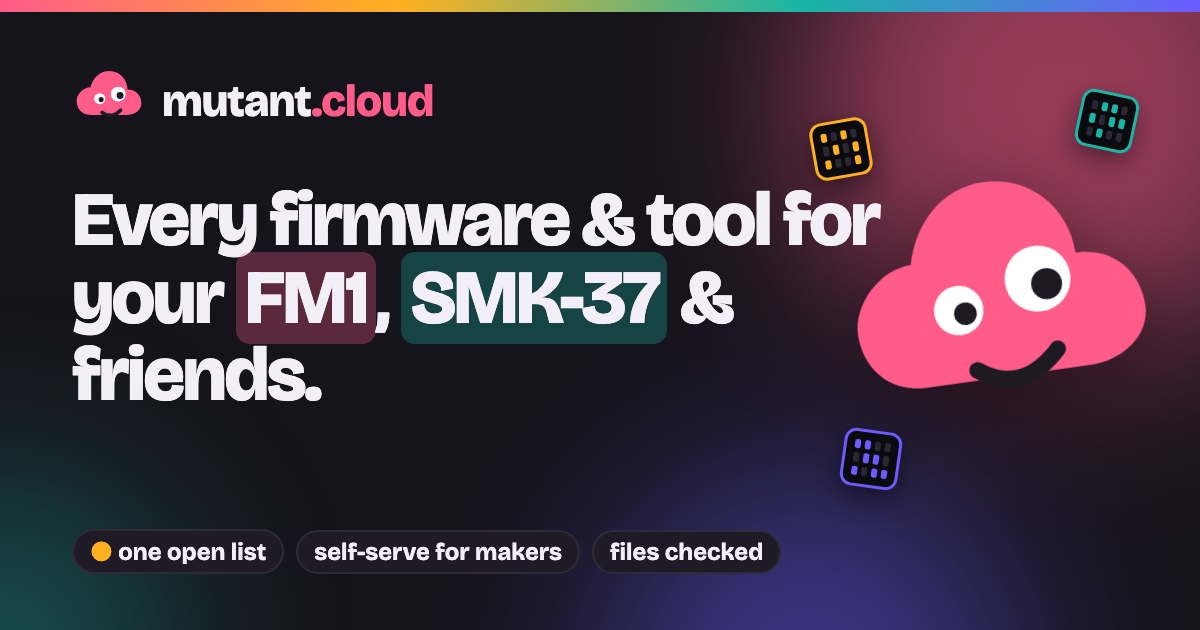
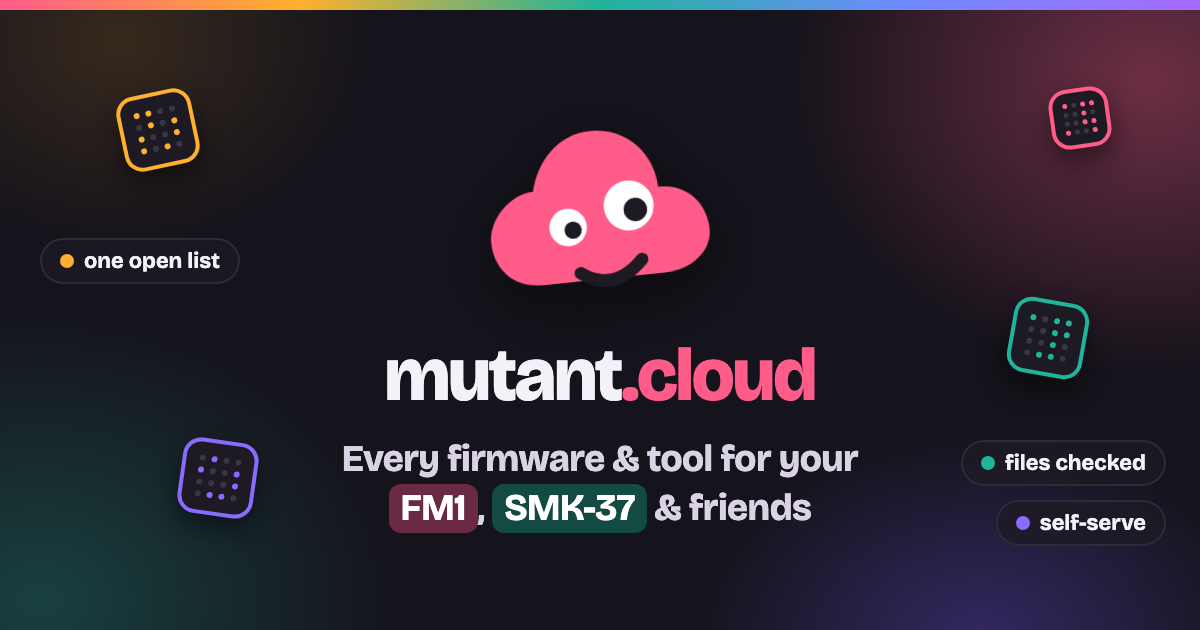
Social image framed for square crops

diff --git a/scripts/og.html b/scripts/og.html
@@ -1,0 +1,167 @@
+<!doctype html>
+<!-- The link preview picture (public/og.png, 1200 × 630): npm run og. Everything that matters sits in the middle
+     630 × 630 square, since Facebook's small previews (in comments, on phones) crop to that square; the sides are decoration. -->
+<html>
+  <head>
+    <meta charset="utf-8" />
+    <link href="https://fonts.googleapis.com/css2?family=Bricolage+Grotesque:opsz,wght@12..96,700;12..96,800&display=block" rel="stylesheet" />
+    <style>
+      * {
+        box-sizing: border-box;
+        margin: 0;
+      }
+      html,
+      body {
+        width: 1200px;
+        height: 630px;
+        overflow: hidden;
+        background: #15131b;
+      }
+      body {
+        position: relative;
+        font-family: 'Bricolage Grotesque', system-ui, sans-serif;
+        color: #f4f1f8;
+        background: radial-gradient(520px 420px at 1150px 80px, rgba(255, 92, 138, 0.38), transparent 70%), radial-gradient(520px 420px at 40px 600px, rgba(32, 160, 140, 0.32), transparent 70%), radial-gradient(420px 300px at 980px 640px, rgba(110, 80, 230, 0.35), transparent 70%), radial-gradient(360px 300px at 120px 40px, rgba(255, 180, 40, 0.14), transparent 70%), #15131b;
+      }
+      .bar {
+        position: absolute;
+        inset: 0 0 auto;
+        height: 10px;
+        background: linear-gradient(90deg, #ff5c8a, #ffb02e, #20b49a, #6e8bff, #a66bff);
+      }
+      /* the middle square */
+      .mid {
+        position: absolute;
+        left: 285px;
+        top: 0;
+        width: 630px;
+        height: 630px;
+        display: flex;
+        flex-direction: column;
+        align-items: center;
+        justify-content: center;
+        text-align: center;
+        padding: 40px 30px 30px;
+      }
+      .mascot {
+        width: 250px;
+        height: 250px;
+        margin-bottom: -18px;
+        filter: drop-shadow(0 18px 30px rgba(0, 0, 0, 0.45));
+        transform: rotate(-6deg);
+      }
+      .word {
+        font-size: 74px;
+        font-weight: 800;
+        letter-spacing: -2px;
+        line-height: 1;
+      }
+      .word b {
+        color: #ff5c8a;
+      }
+      .tag {
+        margin-top: 22px;
+        font-size: 37px;
+        font-weight: 700;
+        line-height: 1.32;
+        letter-spacing: -0.5px;
+        color: #d9d3e3;
+      }
+      .pill {
+        display: inline-block;
+        padding: 0 12px;
+        border-radius: 12px;
+        color: #fff;
+      }
+      .fm1 {
+        background: #6a2a44;
+      }
+      .smk {
+        background: #144a44;
+      }
+      /* little device tiles, on the sides */
+      .tile {
+        position: absolute;
+        width: 76px;
+        height: 76px;
+        border-radius: 18px;
+        border: 4px solid var(--c);
+        background: #1d1a24;
+        display: grid;
+        grid-template-columns: repeat(4, 1fr);
+        gap: 6px;
+        padding: 13px;
+        box-shadow: 0 12px 26px rgba(0, 0, 0, 0.45);
+      }
+      .tile i {
+        border-radius: 3px;
+        background: #3a3545;
+      }
+      .tile i.on {
+        background: var(--c);
+      }
+      .chips {
+        position: absolute;
+        display: flex;
+        flex-direction: column;
+        gap: 14px;
+        font-size: 22px;
+        font-weight: 700;
+      }
+      .chips span {
+        padding: 8px 18px;
+        border-radius: 999px;
+        background: rgba(29, 26, 36, 0.85);
+        border: 2px solid #2e2a38;
+        white-space: nowrap;
+      }
+      .chips span::before {
+        content: '';
+        display: inline-block;
+        width: 14px;
+        height: 14px;
+        border-radius: 50%;
+        margin-right: 10px;
+        background: var(--c);
+      }
+    </style>
+  </head>
+  <body>
+    <div class="bar"></div>
+
+    <div class="mid">
+      <svg class="mascot" viewBox="0 0 32 32" aria-hidden="true">
+        <path fill="#ff5c8a" d="M8 22c-4 0-6-3-6-6s3-6 6-6c1-4 4-7 8-7 5 0 8 4 8 8 4 0 6 3 6 6s-3 5-6 5H8z" />
+        <circle cx="12" cy="15" r="2.4" fill="#fff" />
+        <circle cx="12.6" cy="15.4" r="1.1" fill="#1d1a24" />
+        <circle cx="20" cy="13" r="3.2" fill="#fff" />
+        <circle cx="20.8" cy="13.6" r="1.5" fill="#1d1a24" />
+        <path d="M13 21q4 3 8-1" stroke="#1d1a24" stroke-width="1.6" fill="none" stroke-linecap="round" />
+      </svg>
+      <div class="word">mutant<b>.cloud</b></div>
+      <div class="tag">Every firmware &amp; tool for your<br /><span class="pill fm1">FM1</span>, <span class="pill smk">SMK-37</span> &amp; friends</div>
+    </div>
+
+    <div class="tile" style="--c: #ffb02e; left: 120px; top: 92px; transform: rotate(-12deg)"></div>
+    <div class="tile" style="--c: #20b49a; left: 1010px; top: 300px; transform: rotate(10deg)"></div>
+    <div class="tile" style="--c: #8a6bff; left: 180px; top: 440px; transform: rotate(8deg)"></div>
+    <div class="tile" style="--c: #ff5c8a; left: 1050px; top: 88px; transform: rotate(-8deg); width: 60px; height: 60px; padding: 10px; gap: 4px"></div>
+
+    <div class="chips" style="left: 40px; top: 238px">
+      <span style="--c: #ffb02e">one open list</span>
+    </div>
+    <div class="chips" style="right: 34px; top: 440px; align-items: flex-end">
+      <span style="--c: #20b49a">files checked</span>
+      <span style="--c: #8a6bff">self-serve</span>
+    </div>
+
+    <script>
+      // light up a few cells in each tile (the same every time)
+      let seed = 7
+      const rnd = () => (seed = (seed * 9301 + 49297) % 233280) / 233280
+      for (const t of document.querySelectorAll('.tile')) {
+        for (let i = 0; i < 16; i++) t.insertAdjacentHTML('beforeend', `<i class="${rnd() > 0.45 ? 'on' : ''}"></i>`)
+      }
+    </script>
+  </body>
+</html>

diff --git a/public/index.html b/public/index.html
@@ -10,14 +10,14 @@
     <meta property="og:type" content="website" />
     <meta property="og:url" content="https://mutant.cloud/" />
     <meta property="og:site_name" content="mutant.cloud" />
-    <meta property="og:image" content="https://mutant.cloud/og.png" />
+    <meta property="og:image" content="https://mutant.cloud/og.png?v=2" />
     <meta property="og:image:width" content="1200" />
     <meta property="og:image:height" content="630" />
     <meta property="og:image:alt" content="mutant.cloud: every firmware and tool for your FM1, SMK-37 and friends" />
     <meta name="twitter:card" content="summary_large_image" />
     <meta name="twitter:title" content="mutant.cloud" />
     <meta name="twitter:description" content="Every firmware and tool for the M-VAVE FM1, SMK-37 and friends." />
-    <meta name="twitter:image" content="https://mutant.cloud/og.png" />
+    <meta name="twitter:image" content="https://mutant.cloud/og.png?v=2" />
     <meta name="theme-color" content="#15131b" />
     <link rel="icon" href="/favicon.svg" type="image/svg+xml" />
     <link rel="alternate" type="application/rss+xml" href="/feed.xml" title="mutant.cloud · new firmware" />

diff --git a/scripts/og.js b/scripts/og.js
@@ -1,0 +1,18 @@
+#!/usr/bin/env node
+// npm run og: renders scripts/og.html to public/og.png (the link preview picture) with headless Chrome.
+// env: CHROME (the browser to use, if it isn't found)
+
+import { spawnSync } from 'node:child_process'
+import { existsSync } from 'node:fs'
+
+const ROOT = new URL('..', import.meta.url).pathname
+const CANDIDATES = [process.env.CHROME, '/Applications/Google Chrome.app/Contents/MacOS/Google Chrome', '/Applications/Chromium.app/Contents/MacOS/Chromium', '/usr/bin/google-chrome', '/usr/bin/chromium', '/usr/bin/chromium-browser'].filter(Boolean)
+const chrome = CANDIDATES.find((c) => existsSync(c))
+if (!chrome) {
+  console.error('✗ no Chrome found: set CHROME to its path')
+  process.exit(1)
+}
+// (the time budget lets the web font load before the picture is taken)
+const r = spawnSync(chrome, ['--headless', '--disable-gpu', '--hide-scrollbars', '--force-device-scale-factor=1', '--window-size=1200,630', '--virtual-time-budget=8000', `--screenshot=${ROOT}public/og.png`, `file://${ROOT}scripts/og.html`], { stdio: 'inherit' })
+if (r.status !== 0) process.exit(r.status || 1)
+console.log('✓ public/og.png')

diff --git a/src/worker.js b/src/worker.js
@@ -1468,7 +1468,7 @@ async function listingPage(request, env, url, id) {
   if (!row || row.hidden) return page // (the site says it's not found)
   const e = effective((await withShots(env, attachLatest([row], [])))[0])
   const abs = (u) => (u && u.startsWith('/') ? url.origin + u : u)
-  const image = abs(e.cover) || `${url.origin}/og.png`
+  const image = abs(e.cover) || `${url.origin}/og.png?v=2`
   const square = e.coverIsScreen || !e.cover // a 240x240 screen (or none): the small card fits it better
   const title = `${e.name} by ${e.author}`
   const devices = e.devices.map((d) => DEVICES[d] || d).join(' & ')
